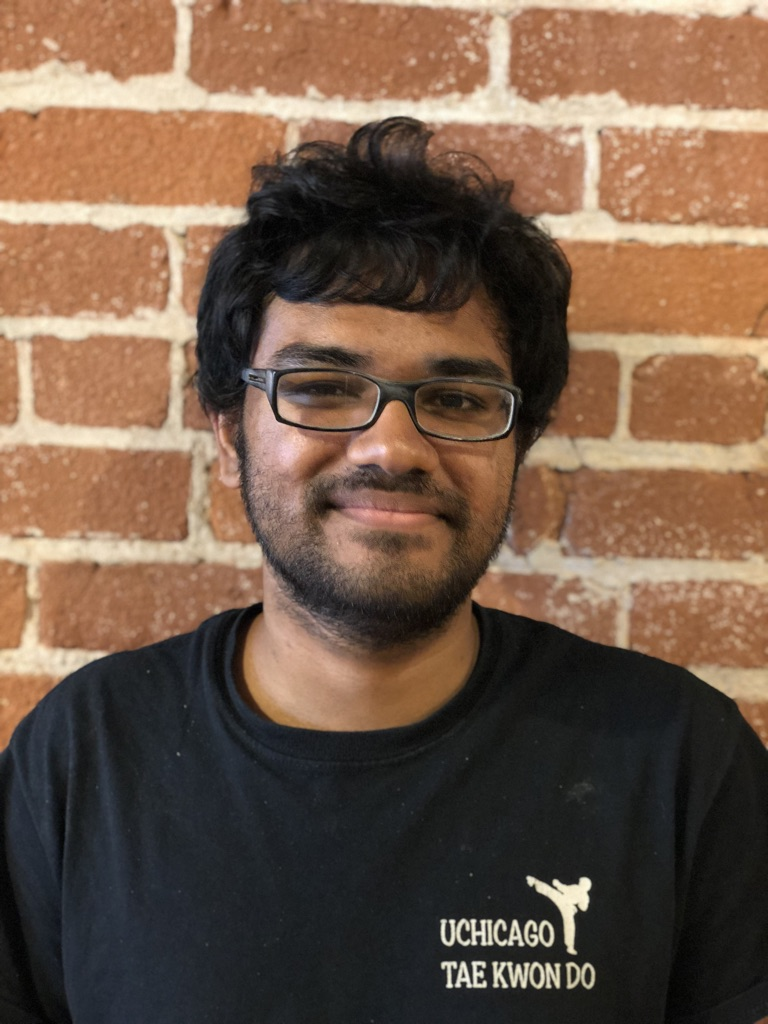
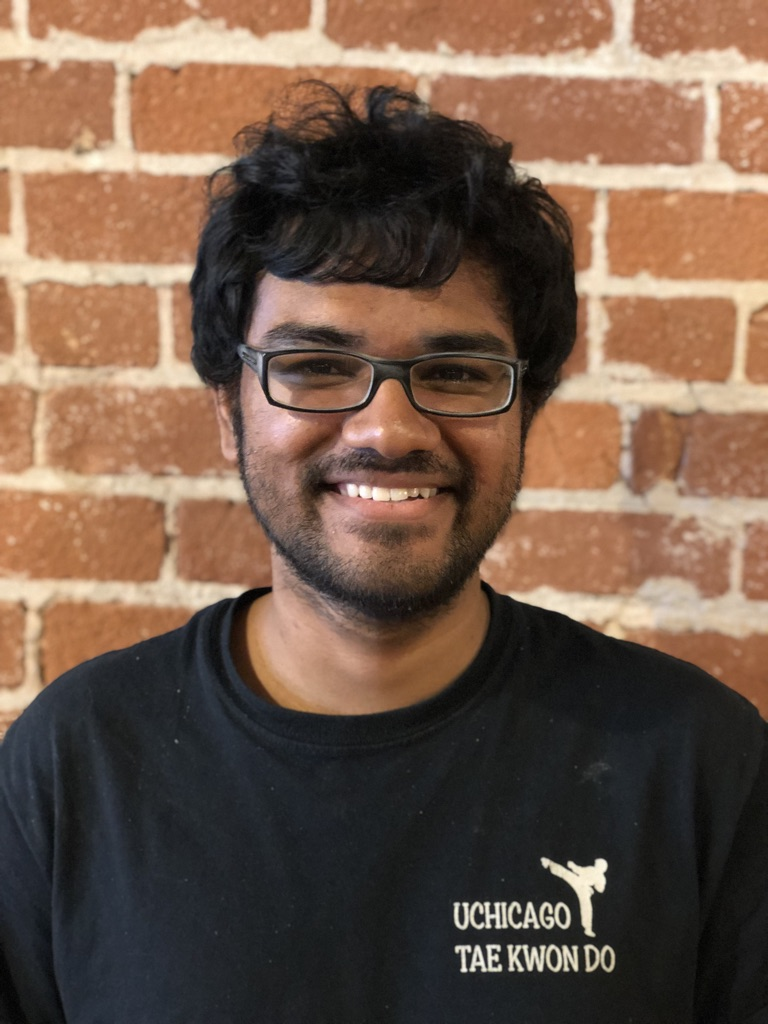
optimized headshots

diff --git a/src/Containers/About.js b/src/Containers/About.js
@@ -31,13 +31,13 @@ class About extends Component {
             <h2 className="display-3">Founders</h2>
             <Row>
               <Col xs={{ size: 5, order: 3, offset: 1 }}>
-                <Profile image={vasish} name={'Vasish'} title={'Co-Founder'} bio={`Vasish is currently the lead backend developer
+                <Profile class={'eachCard'} image={vasish} name={'Vasish'} title={'Co-Founder'} bio={`Vasish is currently the lead backend developer
                   for ForkIt and works on architecting system design and implementing core application functionality. He graduated
                   with a degree in Physics from the University of Chicago, where he did Astrophysics research for the South Pole
                   Telescope.  Vasish hails from a small island off the east coast of Madagascar known mostly for an extinct bird
                   (The Dodo). In his spare time, he does Taekwondo, loves to swim and likes talking about soccer. Vasish’s dream
                   is to work on strong A.I. while meditating in the Himalayas.`}/>
-                <Profile image={hassan} name={'Hassan Saab'} title={'Co-Founder'} bio={`Hassan architects and prioritizes
+                <Profile class={'eachCard'} image={hassan} name={'Hassan Saab'} title={'Co-Founder'} bio={`Hassan architects and prioritizes
                    key product themes and strategies, while supporting the front-end and back-end team in execution and
                    implementation. Previously, Hassan worked in investment banking, focusing on business technology M&A and
                    strategic advisory. Hassan graduated from the Wharton School of Business with a concentration in Finance. In
@@ -45,12 +45,12 @@ class About extends Component {
                    Hassan's dream is to one day make the NBA.`}/>
               </Col>
               <Col xs={{ size: 5, order: 3 }}>
-                <Profile image={brandon} name={'Brandon Eng'} title={'Co-Founder'} bio={`Brandon is a frontend-focused developer with a
+                <Profile class={'eachCard'} image={brandon} name={'Brandon Eng'} title={'Co-Founder'} bio={`Brandon is a frontend-focused developer with a
                   keen sense for UI/UX layout and design. He originally created the idea for Fork It in preparation for a hackathon.
                   Prior to becoming a software engineer, Brandon was a business student at Washington University in St. Louis Olin
                   Business School with healthcare and management consulting experience. Outside of coding, Brandon is an avid skiier
                   and outdoor adventurer. His dream is to one day be invited to perform on stage with Chance The Rapper.`}/>
-                <Profile marginTop="10px" image={paul} name={'Paul Jin'} title={'Co-Founder'} bio={`Paul is one of the primary backend developers
+                <Profile class={'paul'} image={paul} name={'Paul Jin'} title={'Co-Founder'} bio={`Paul is one of the primary backend developers
                   who provides support and insight on systems design decisions. Previously, Paul worked as a freelance full stack
                   developer and as a product designer at various start ups in the Bay Area. Paul is currently a Computer Engineering
                   student attending Santa Clara University. In his free time, Paul enjoys games, eSports, long walks on the beach, and

diff --git a/src/App.css b/src/App.css
@@ -41,9 +41,10 @@
 }
 
 .headShot {
-  width: 100%;
+  width: 70%;
   height: auto;
-  align-self: flex-start;
+  align-self: center;
+  overflow: hidden;
 }
 
 .eachCard {
@@ -61,5 +62,6 @@
 }
 
 .paul {
-  margin-top: 2vh;
+  margin-top: 7.2vh;
+  margin-right: 5vw;
 }

diff --git a/src/Components/Profile.js b/src/Components/Profile.js
@@ -16,7 +16,7 @@ class Profile extends Component {
 
   render() {
     return (
-      <div className="eachCard">
+      <div className={this.props.class}>
         <Row>
           <Card>
             <CardBody>
